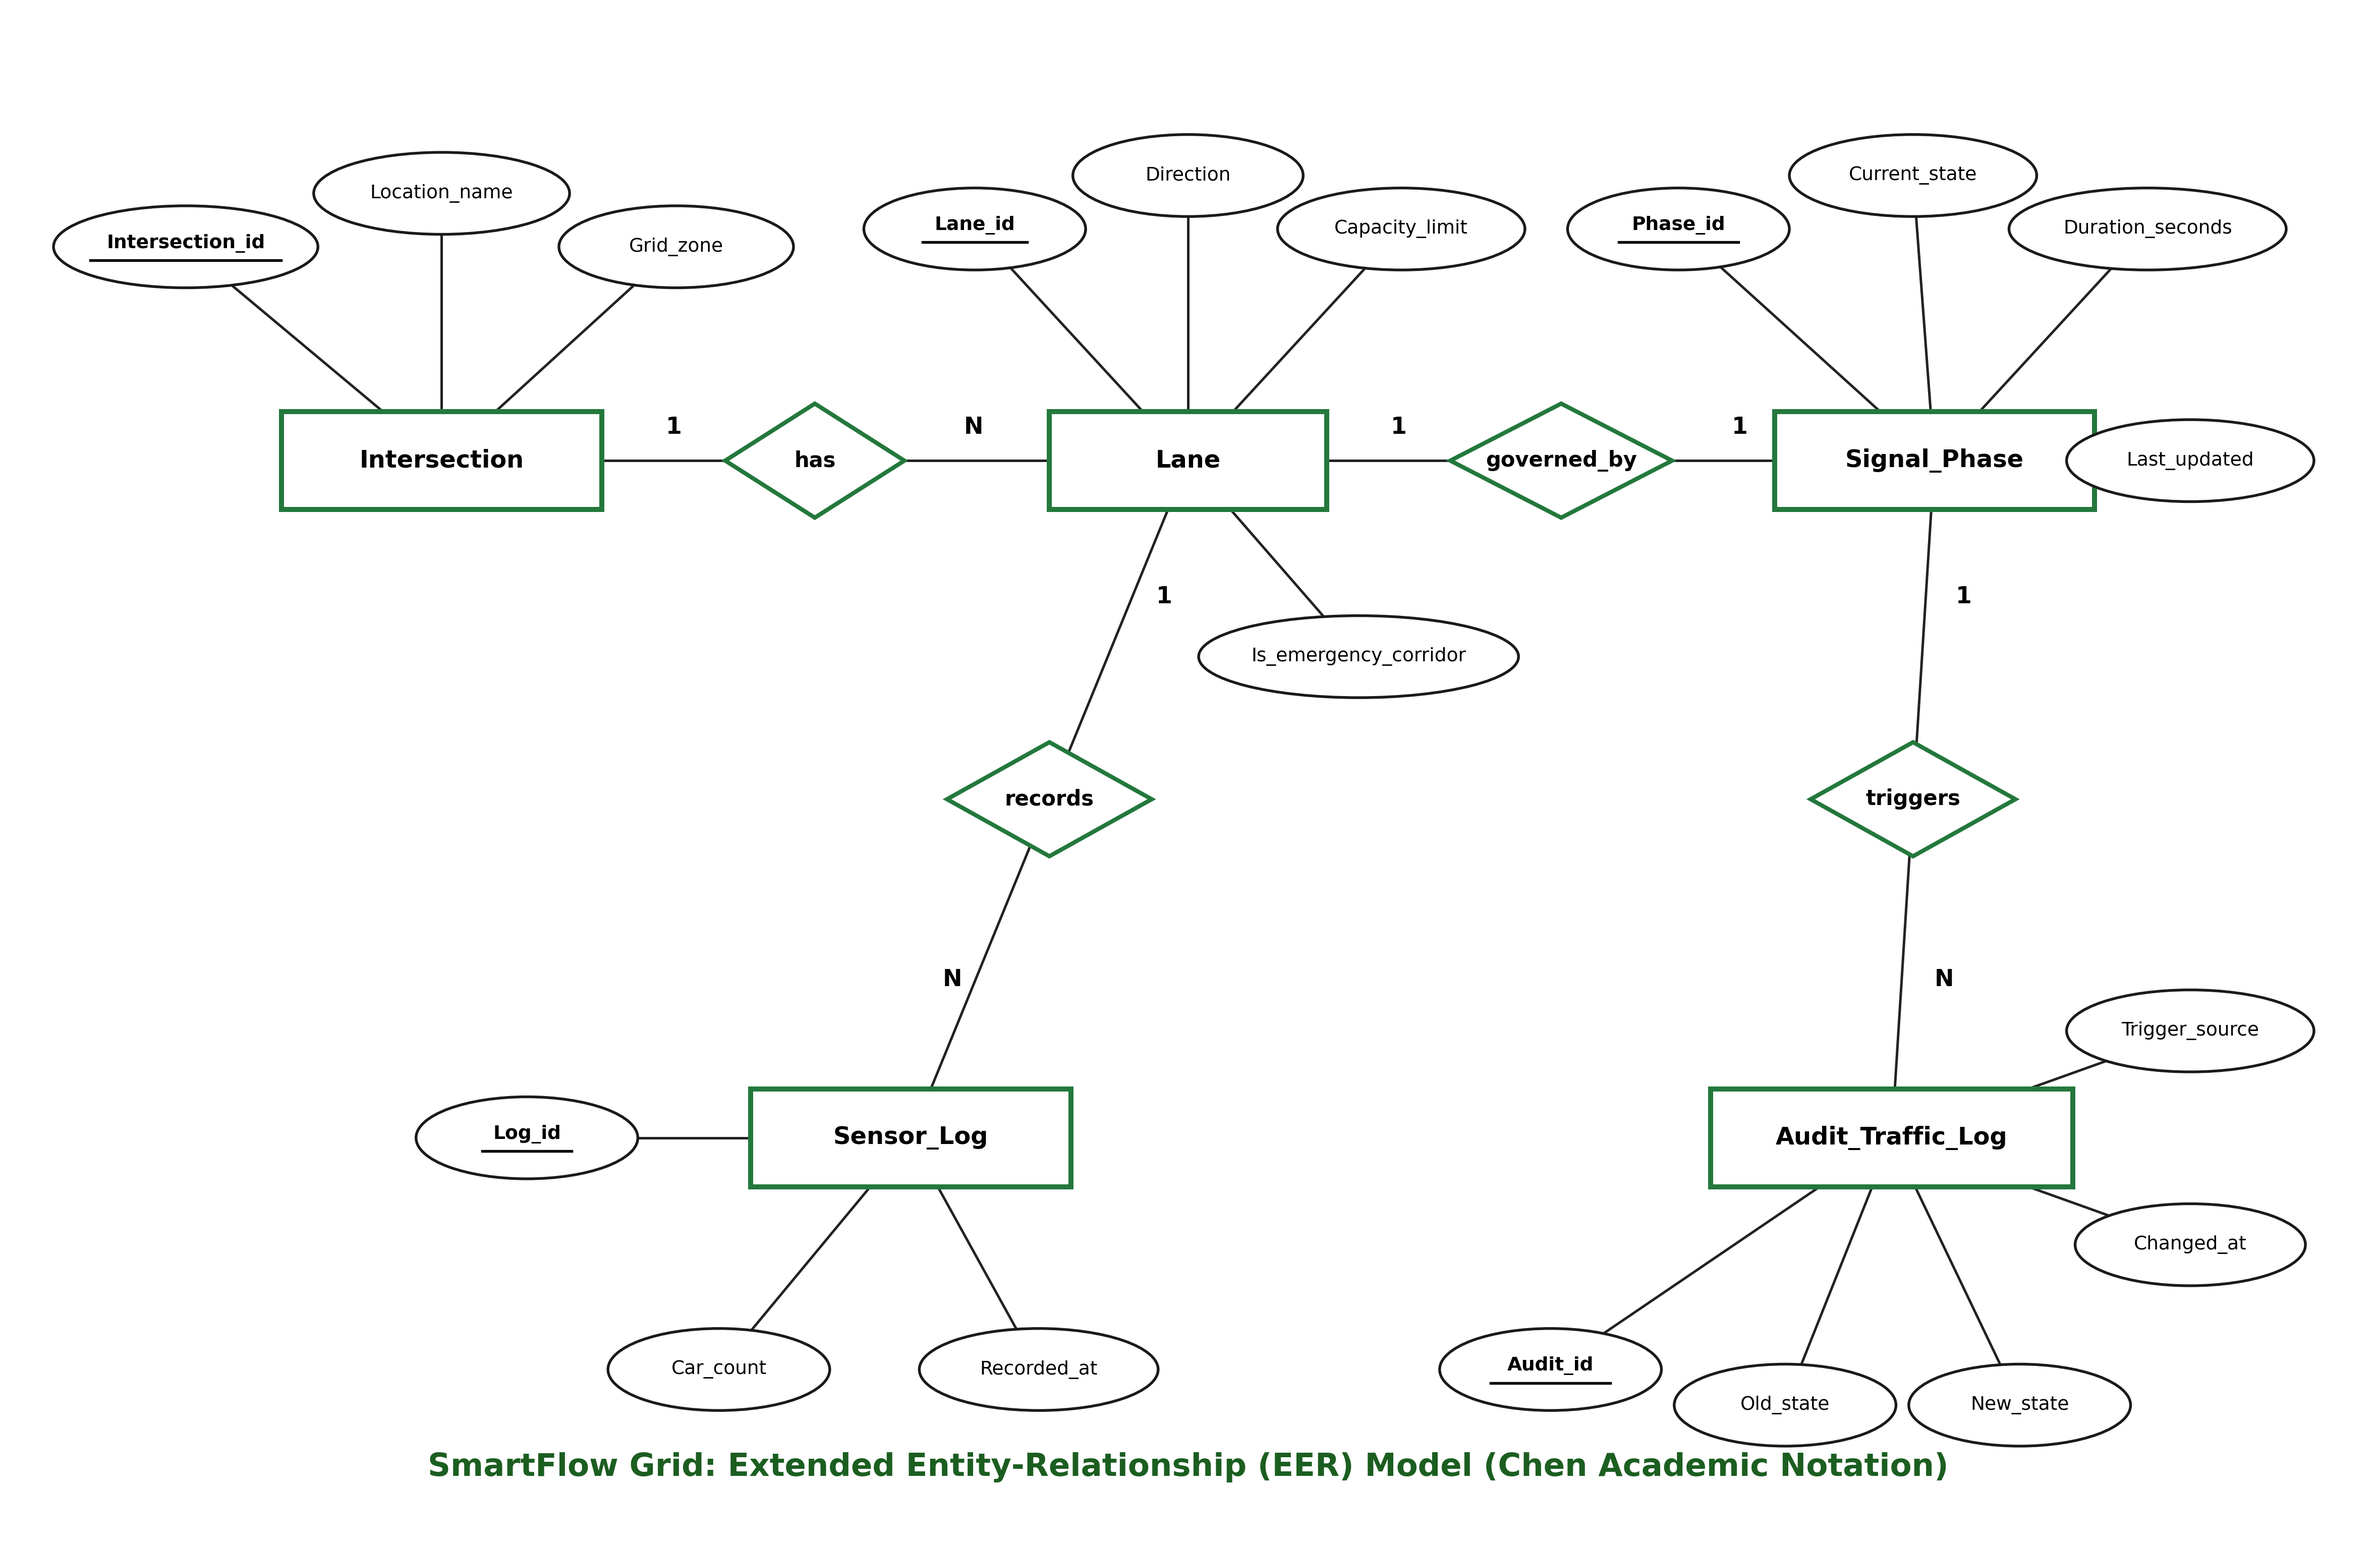
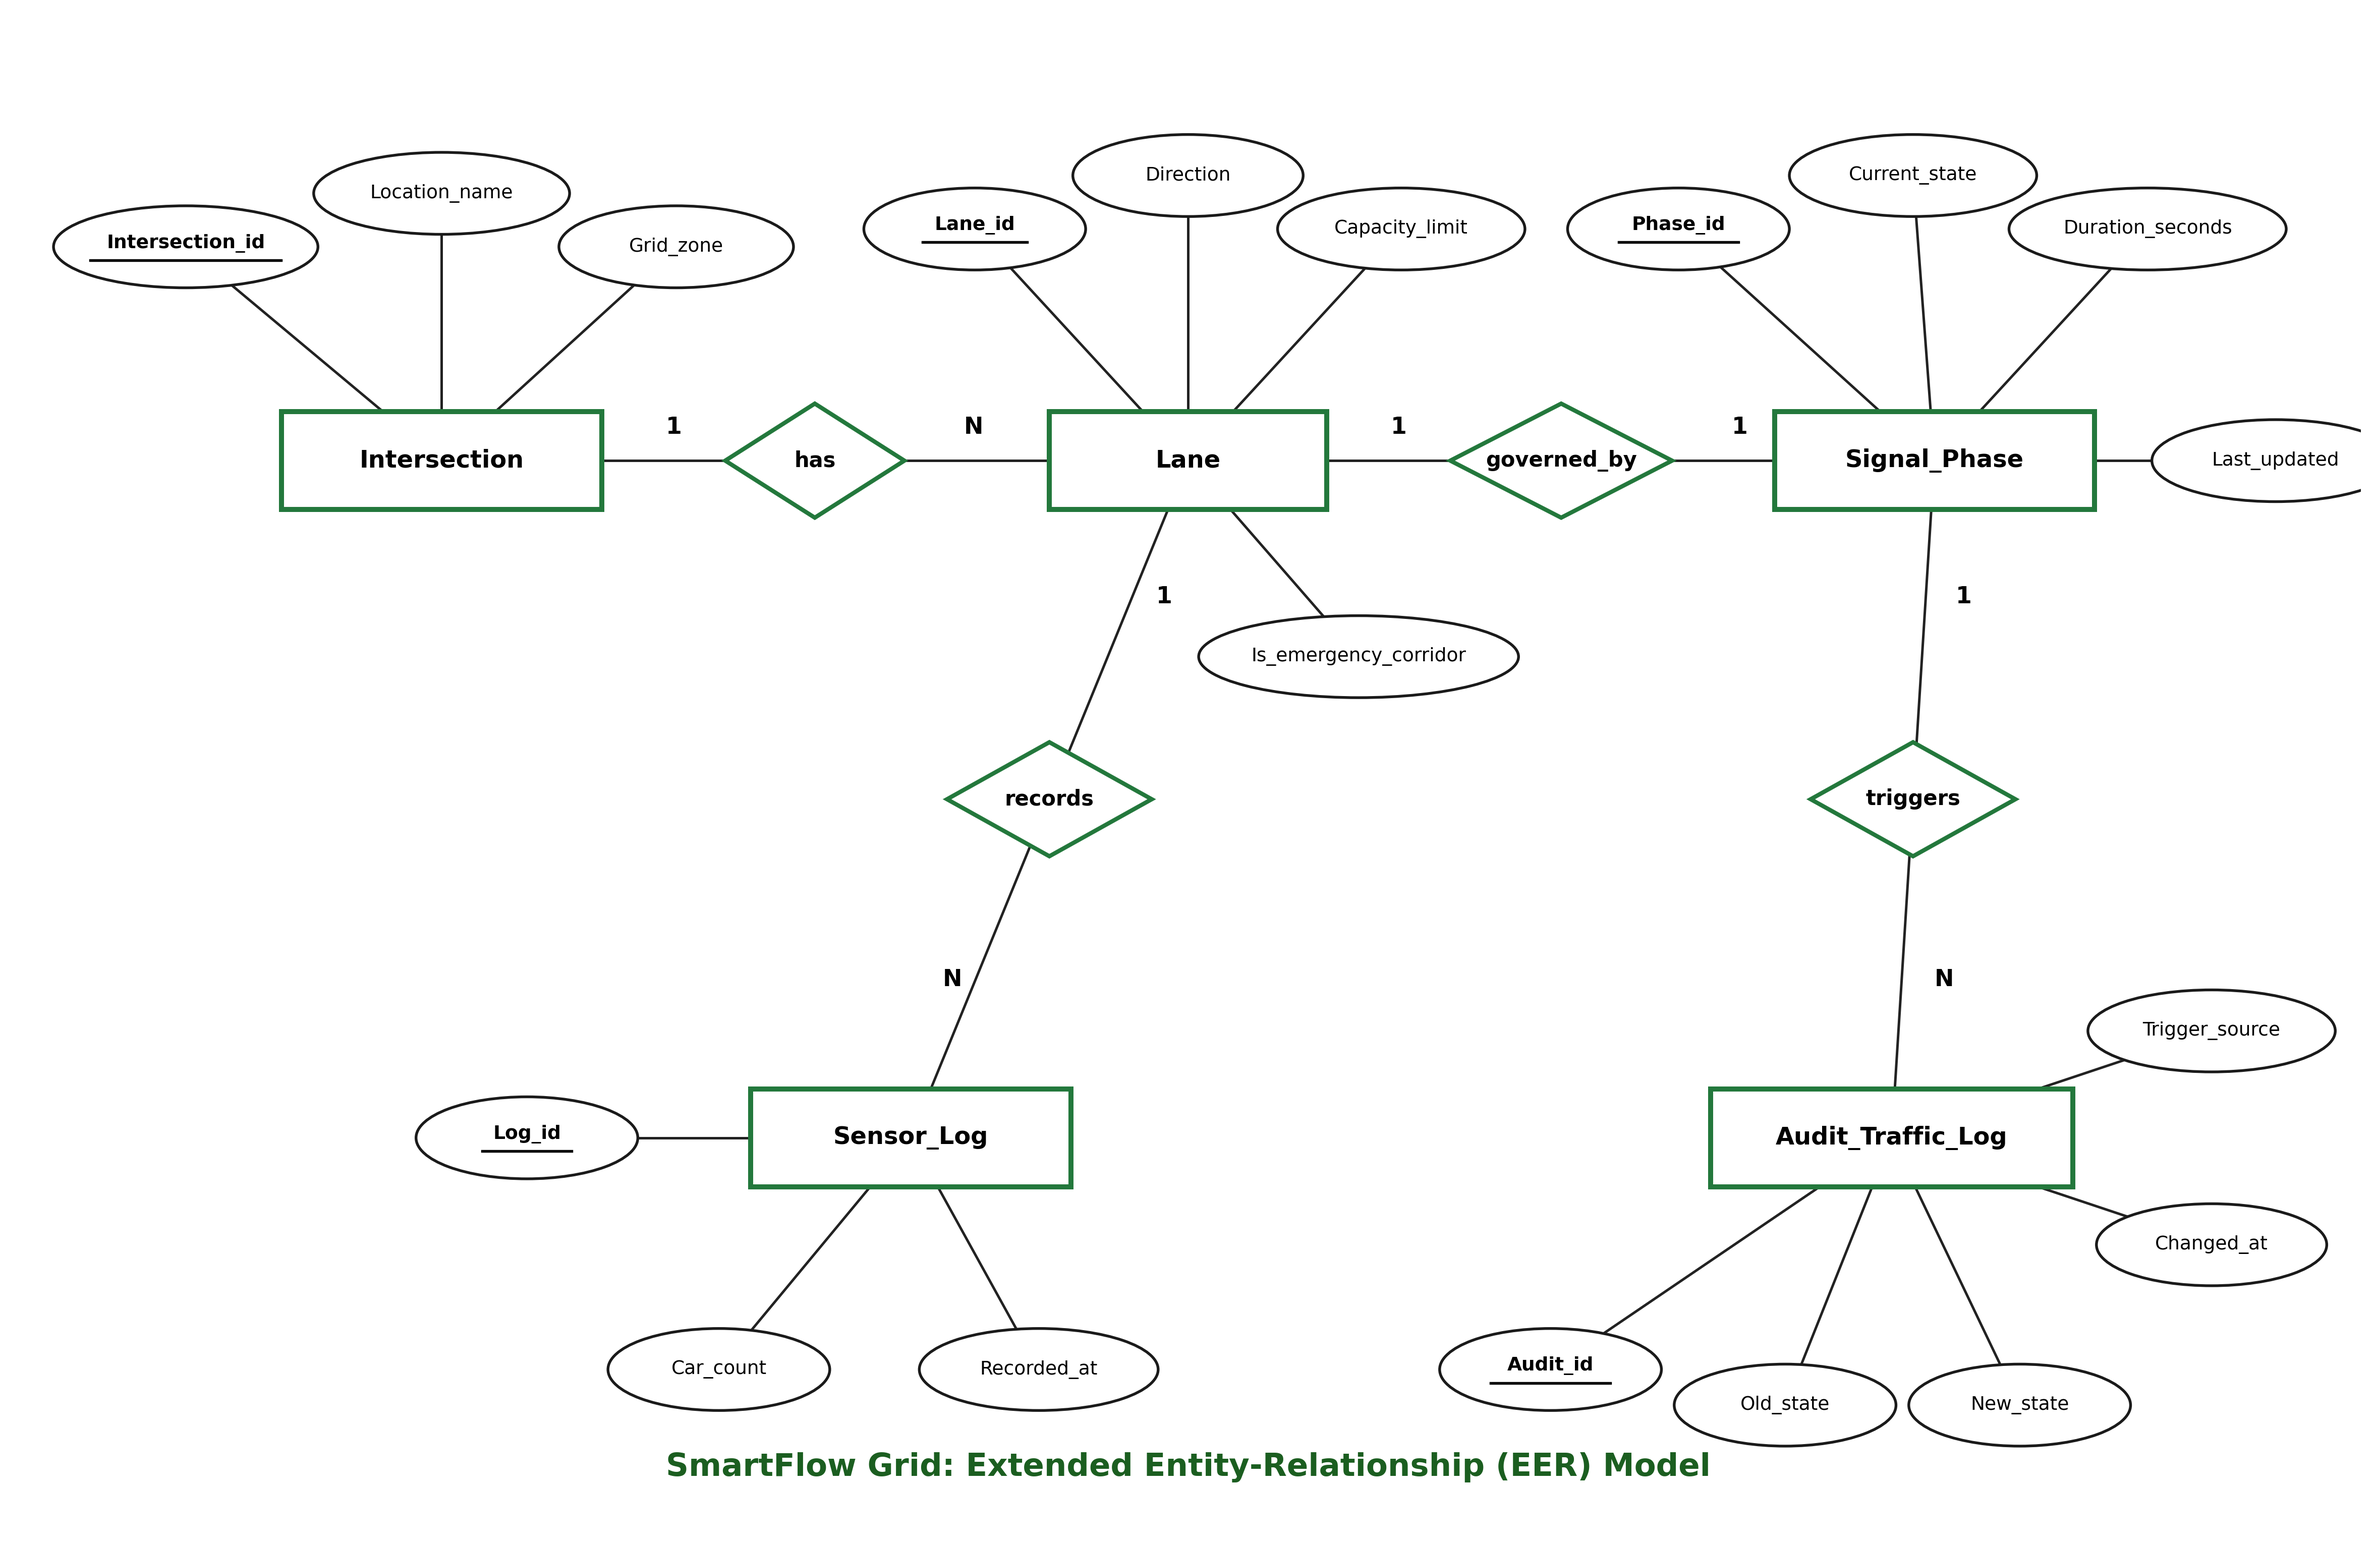
fix(eer): resolve Last_updated oval overlap and remove notation subtitle

diff --git a/scripts/generate_eer_diagram.py b/scripts/generate_eer_diagram.py
@@ -166,7 +166,7 @@ def draw_eer_diagram():
         (78, 73, 5.2, 2.3, "Phase_id", True),
         (89, 76, 5.8, 2.3, "Current_state", False),
         (100, 73, 6.5, 2.3, "Duration_seconds", False),
-        (102, 60, 5.8, 2.3, "Last_updated", False),
+        (106, 60, 5.8, 2.3, "Last_updated", False),
     ]
     for ax_pos, ay_pos, rx, ry, name, is_pk in attrs_phase:
         draw_line(E_PHASE, (ax_pos, ay_pos))
@@ -191,15 +191,15 @@ def draw_eer_diagram():
         (72, 9, 5.2, 2.3, "Audit_id", True),
         (83, 7, 5.2, 2.3, "Old_state", False),
         (94, 7, 5.2, 2.3, "New_state", False),
-        (102, 16, 5.4, 2.3, "Changed_at", False),
-        (102, 28, 5.8, 2.3, "Trigger_source", False),
+        (103, 16, 5.4, 2.3, "Changed_at", False),
+        (103, 28, 5.8, 2.3, "Trigger_source", False),
     ]
     for ax_pos, ay_pos, rx, ry, name, is_pk in attrs_audit:
         draw_line(E_AUDIT, (ax_pos, ay_pos))
         draw_attribute(ax_pos, ay_pos, rx, ry, name, is_pk)
 
     # Title Banner
-    ax.text(55, 3.5, "SmartFlow Grid: Extended Entity-Relationship (EER) Model (Chen Academic Notation)",
+    ax.text(55, 3.5, "SmartFlow Grid: Extended Entity-Relationship (EER) Model",
             ha="center", va="center", fontsize=15, fontweight="bold", color="#1b5e20")
 
     png_path = "d:/Projects/DBMS Case Study/docs/figures/SmartFlow_Grid_EER_Diagram.png"
